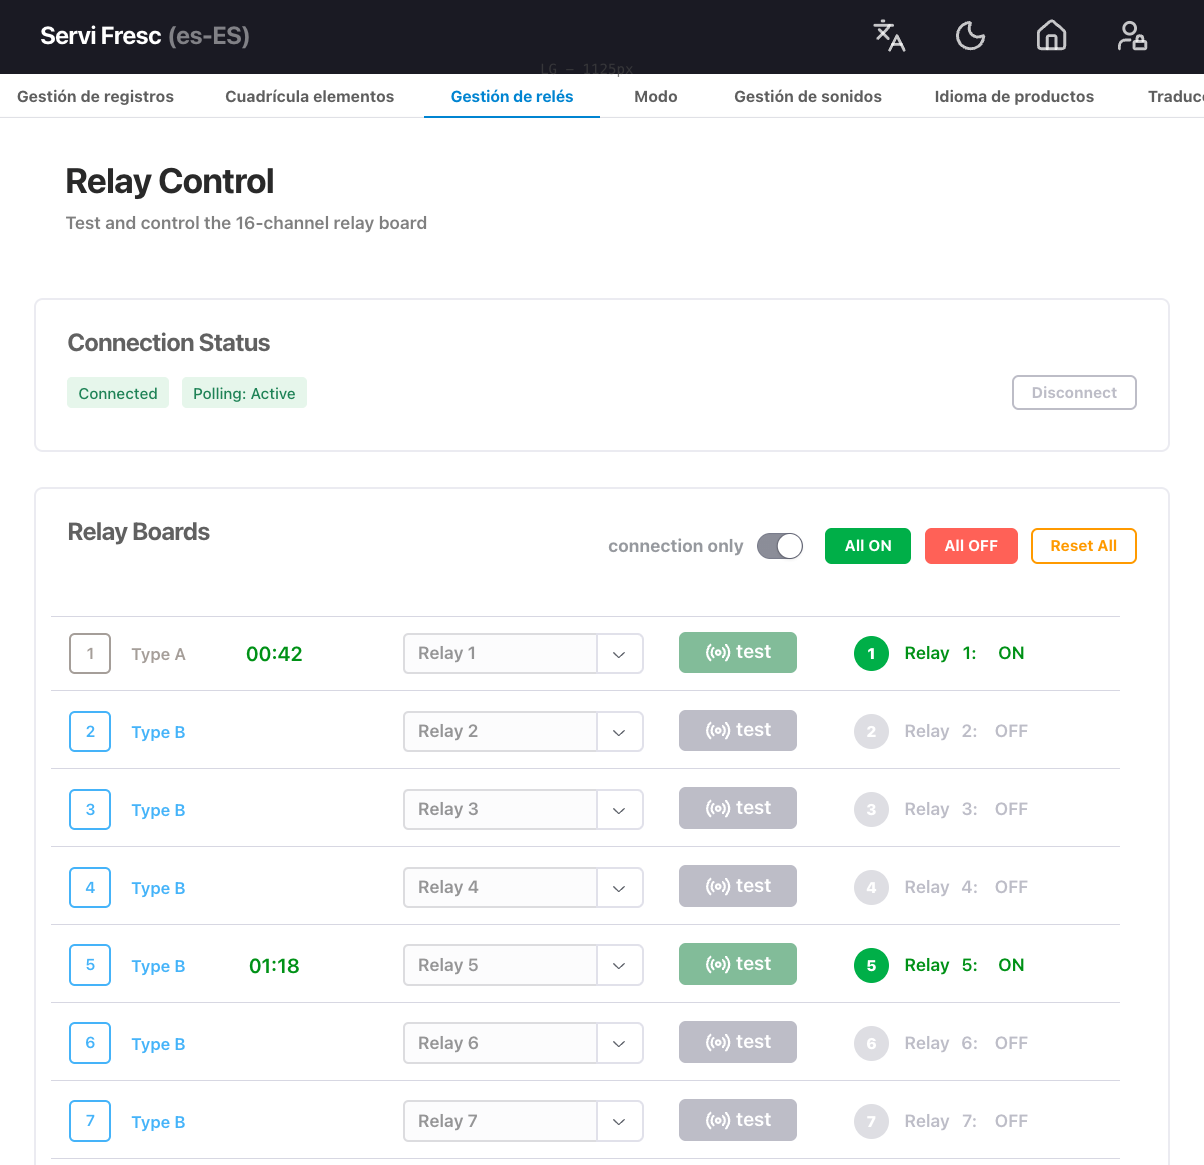
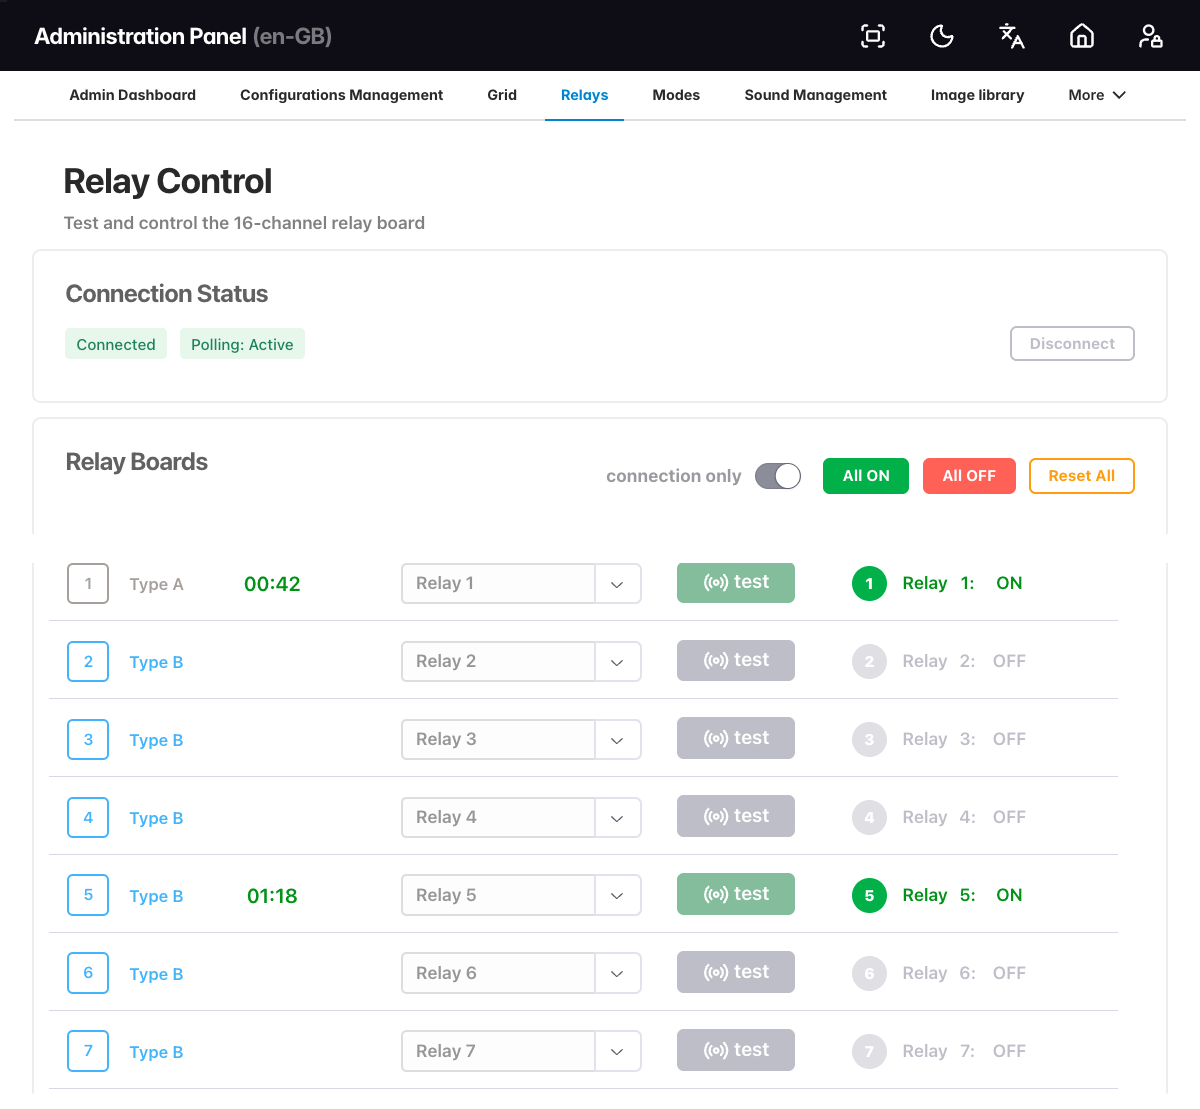
docs(frontend): update images to remove alt text

diff --git a/README.md b/README.md
@@ -65,7 +65,7 @@ See [docs/relays/hardware.md](docs/relays/hardware.md) for the full protocol.
 A relay board only knows channel numbers, it has no concept of "slot 4" or "the left-hand tap." That mapping is configured in the admin UI, which lets an operator assign any physical relay number (1–16, across both boards) to any slot in the app:
 
 <p align="center">
-  <img src="docs/images/touch_admin--relay-mapping.png" alt="Admin UI for mapping app slots to physical relay numbers" width="640" />
+  <img src="docs/images/touch_admin--relay-mapping.png" alt="Admin UI for mapping app slots to physical relay numbers"  />
 </p>
 
 The mapping is one-to-one and stored per slot (`slot_configurations.relayNumber`); unassigned slots stay `null` and are simply never sent a command. See [docs/relays/server.md](docs/relays/server.md) and [docs/relays/client.md](docs/relays/client.md) for how this flows through the API and admin page.
@@ -75,22 +75,22 @@ The mapping is one-to-one and stored per slot (`slot_configurations.relayNumber`
 Relay assignment is only half the story: each slot also has to land somewhere on the grid the operator actually taps. The admin **Grid** page configures that layout: number of columns/rows, slot type per position (`Type A`/`B`/`C`/etc.), and the special slots (grid, alt, power) shown on the right:
 
 <p align="center">
-  <img src="docs/images/touch_admin--ui-pad-mapping.png" alt="Admin UI for configuring grid layout and slot types" width="640" />
+  <img src="docs/images/touch_admin--ui-pad-mapping.png" alt="Admin UI for configuring grid layout and slot types" />
 </p>
 
 That same layout, same slot numbers, same columns × rows, is what actually renders on the front-facing touchscreen (see below), just swapped from admin's square/labelled cells to the round pads operators tap.
 
-Grid layout and relay mapping are configured independently but share the same slot numbering, and both are read from `slot_configurations` at render time. The grid iteration itself (rows/columns to slot position) is driven by a single shared function, `mapGridByColumns` (`apps/client/src/utils/grid.utils.ts`), used by both the admin `SlotGrid` and the main page's `MainPageSlotGrid`, so admin and touchscreen never drift out of sync on *where* a slot appears; relay mapping separately decides *what hardware* it drives. See [apps/client/src/utils/grid.utils.README.md](apps/client/src/utils/grid.utils.README.md) for how column count is derived from active slot count.
+Grid layout and relay mapping are configured independently but share the same slot numbering, and both are read from `slot_configurations` at render time. The grid iteration itself (rows/columns to slot position) is driven by a single shared function, `mapGridByColumns` (`apps/client/src/utils/grid.utils.ts`), used by both the admin `SlotGrid` and the main page's `MainPageSlotGrid`, so admin and touchscreen never drift out of sync on _where_ a slot appears; relay mapping separately decides _what hardware_ it drives. See [apps/client/src/utils/grid.utils.README.md](apps/client/src/utils/grid.utils.README.md) for how column count is derived from active slot count.
 
 ### The relay in action
 
 On the front-of-house touchscreen (a Raspberry Pi 4 running the client in kiosk mode), starting a dispensing session starts a countdown timer for that slot **and switches its mapped relay ON** for the duration. When the timer reaches `00:00`, the relay is switched back **OFF** automatically:
 
 <p align="center">
-  <img src="docs/images/touch_main-touchscreen-ui.png" alt="Main touchscreen UI showing active countdown timers, each driving its mapped relay" width="640" />
+  <img src="docs/images/touch_main-touchscreen-ui.png" alt="Main touchscreen UI showing active countdown timers, each driving its mapped relay"  />
 </p>
 
-In short: **admin UI decides *which* relay a slot controls, the main touchscreen UI decides *when* it's switched: timer running means relay on, timer at zero means relay off.**
+In short: **admin UI decides _which_ relay a slot controls, the main touchscreen UI decides _when_ it's switched: timer running means relay on, timer at zero means relay off.**
 
 The admin UI isn't limited to the Pi's own touchscreen, it's just a web app, so it can also be reached from a laptop or desktop over the local WiFi/network (e.g. `http://<PI_IP>:4040`), behind the normal password-protected admin login. See [docs/ubuntu/RASPBERRY_PI_NETWORK_ACCESS.md](docs/ubuntu/RASPBERRY_PI_NETWORK_ACCESS.md) for how to find the Pi's IP and connect.
 
